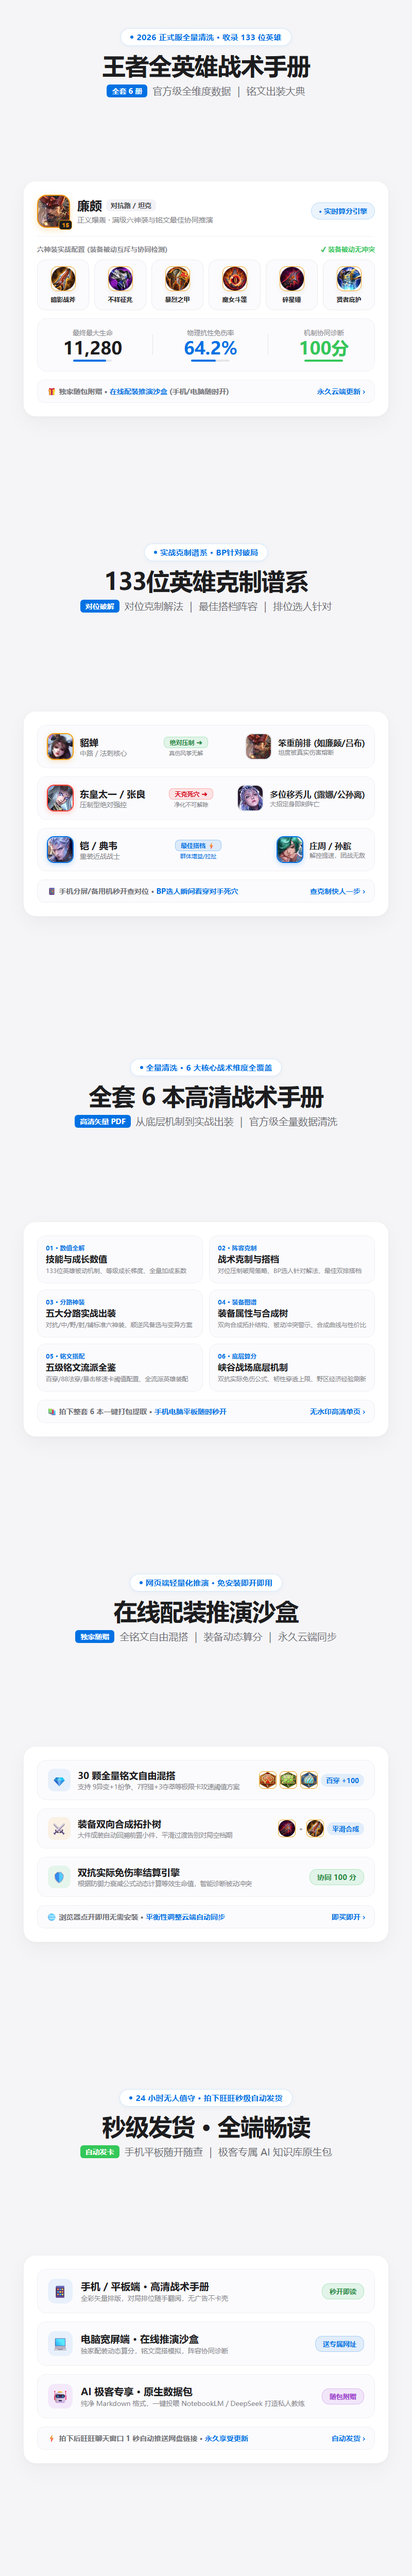
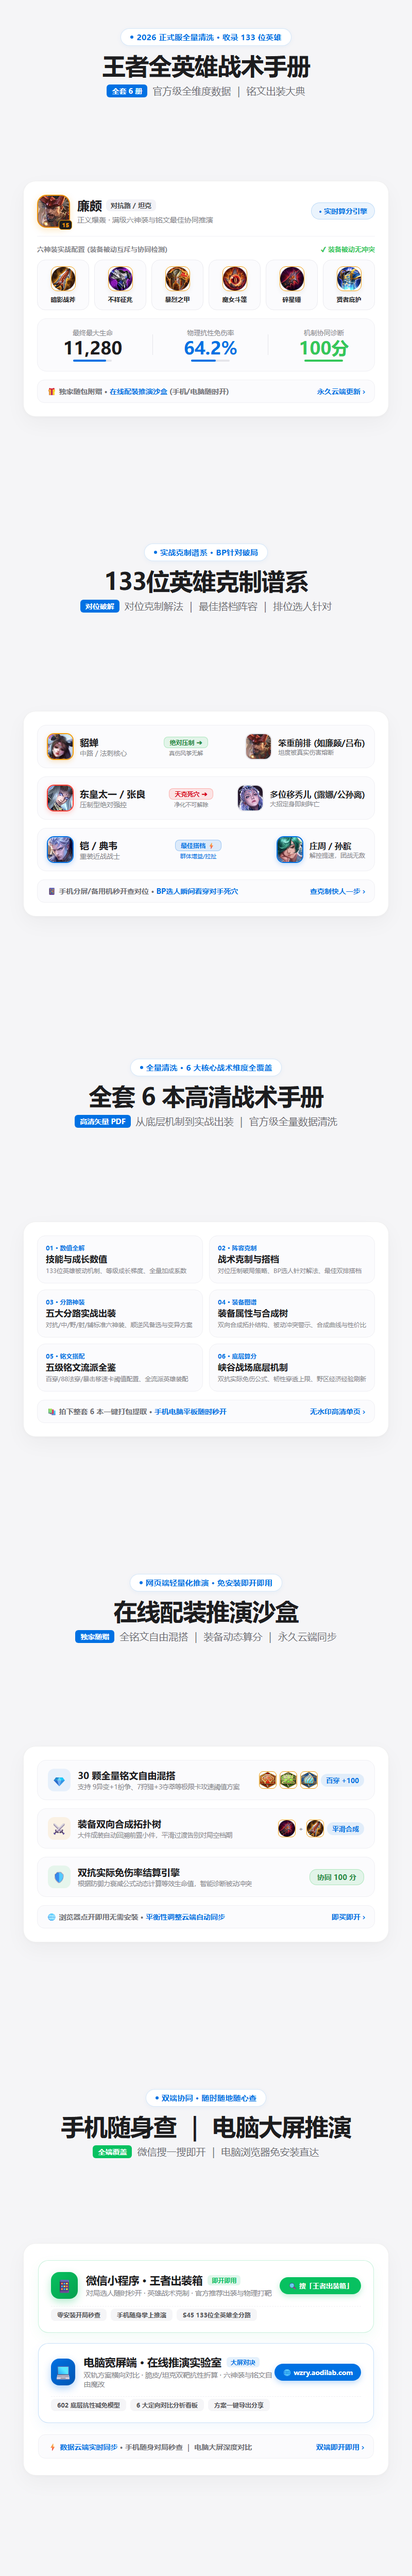
feat(poster): redesign slice 05 into ultra-clean dual-platform showcase and rebuild 800x5000 poster

Changed region(s): [[0.125, 0.8736, 0.625, 0.9672], [0.1562, 0.8112, 0.8438, 0.8424], [0.6562, 0.8736, 0.875, 0.9672]]

diff --git a/templates/details/details_slices_extra.py b/templates/details/details_slices_extra.py
@@ -114,53 +114,73 @@ DETAILS_SLICES_EXTRA = [
         """
     ),
 
-    # 05_详情页：发货流程与全平台畅读
+    # 05_详情页：双端协同实战体验 (微信小程序 + 电脑宽屏沙盒)
     (
         "05_详情页_秒级发货全端畅读.png",
-        "24 小时无人值守 · 拍下旺旺秒级自动发货",
-        "秒级发货 · 全端畅读",
-        '<span class="subtitle-badge" style="background:#34c759;">自动发卡</span> <span>手机平板随开随查 ｜ 极客专属 AI 知识库原生包</span>',
+        "双端协同 · 随时随地随心查",
+        "手机随身查 ｜ 电脑大屏推演",
+        '<span class="subtitle-badge" style="background:#07c160;">全端覆盖</span> <span>微信搜一搜即开 ｜ 电脑浏览器免安装直达</span>',
         """
-        <div class="pro-card">
-            <div style="background:#fbfbfd; border-radius:18px; padding:18px 20px; border:1px solid #f0f0f4; display:flex; align-items:center; justify-content:space-between;">
-                <div style="display:flex; align-items:center; gap:16px;">
-                    <div style="width:48px; height:48px; border-radius:14px; background:rgba(0,113,227,0.08); display:flex; align-items:center; justify-content:center; font-size:24px;">📱</div>
-                    <div>
-                        <div style="font-size:19px; font-weight:800; color:#1d1d1f;">手机 / 平板端 · 高清战术手册</div>
-                        <div style="font-size:13px; color:#86868b; margin-top:2px;">全彩矢量排版，对局排位随手翻阅，无广告不卡壳</div>
+        <div class="pro-card" style="gap:20px; padding:32px 28px;">
+            <!-- 模块 1：微信小程序 -->
+            <div style="background:#ffffff; border-radius:20px; padding:22px 24px; border:1.5px solid rgba(7,193,96,0.22); box-shadow:0 8px 24px rgba(7,193,96,0.06); display:flex; flex-direction:column; gap:14px;">
+                <div style="display:flex; align-items:center; justify-content:space-between;">
+                    <div style="display:flex; align-items:center; gap:16px;">
+                        <div style="width:52px; height:52px; border-radius:16px; background:linear-gradient(135deg, #07c160 0%, #05a04e 100%); display:flex; align-items:center; justify-content:center; color:#ffffff; font-size:26px; box-shadow:0 6px 16px rgba(7,193,96,0.3);">
+                            📱
+                        </div>
+                        <div>
+                            <div style="display:flex; align-items:center; gap:10px;">
+                                <div style="font-size:21px; font-weight:850; color:#1d1d1f; letter-spacing:-0.02em;">微信小程序 · 王者出装箱</div>
+                                <span style="background:rgba(7,193,96,0.12); color:#07c160; font-size:12px; font-weight:800; padding:2px 8px; border-radius:6px;">即开即用</span>
+                            </div>
+                            <div style="font-size:13.5px; color:#86868b; margin-top:3px;">对局选人随时秒开 · 英雄战术克制 · 官方推荐出装与物理打靶</div>
+                        </div>
+                    </div>
+                    <div style="background:#07c160; color:#ffffff; font-size:13px; font-weight:800; padding:8px 16px; border-radius:980px; box-shadow:0 4px 12px rgba(7,193,96,0.25); white-space:nowrap;">
+                        🔍 搜「王者出装箱」
                     </div>
                 </div>
-                <span style="background:rgba(52,199,89,0.12); color:#248a3d; border:1px solid rgba(52,199,89,0.3); font-size:13px; font-weight:800; padding:6px 14px; border-radius:14px;">秒开即读</span>
+                <div style="display:flex; gap:8px; padding-top:4px; border-top:1px dashed #f0f0f4;">
+                    <span style="background:#f5f5f7; color:#515154; font-size:12px; font-weight:600; padding:4px 12px; border-radius:8px;">零安装开局秒查</span>
+                    <span style="background:#f5f5f7; color:#515154; font-size:12px; font-weight:600; padding:4px 12px; border-radius:8px;">手机随身掌上推演</span>
+                    <span style="background:#f5f5f7; color:#515154; font-size:12px; font-weight:600; padding:4px 12px; border-radius:8px;">S45 133位全英雄全分路</span>
+                </div>
             </div>
 
-            <div style="background:#fbfbfd; border-radius:18px; padding:18px 20px; border:1px solid #f0f0f4; display:flex; align-items:center; justify-content:space-between;">
-                <div style="display:flex; align-items:center; gap:16px;">
-                    <div style="width:48px; height:48px; border-radius:14px; background:rgba(0,113,227,0.08); display:flex; align-items:center; justify-content:center; font-size:24px;">💻</div>
-                    <div>
-                        <div style="font-size:19px; font-weight:800; color:#1d1d1f;">电脑宽屏端 · 在线推演沙盒</div>
-                        <div style="font-size:13px; color:#86868b; margin-top:2px;">独家配装动态算分，铭文混搭模拟，阵容协同诊断</div>
+            <!-- 模块 2：电脑宽屏推演沙盒 -->
+            <div style="background:#ffffff; border-radius:20px; padding:22px 24px; border:1.5px solid rgba(0,113,227,0.22); box-shadow:0 8px 24px rgba(0,113,227,0.06); display:flex; flex-direction:column; gap:14px;">
+                <div style="display:flex; align-items:center; justify-content:space-between;">
+                    <div style="display:flex; align-items:center; gap:16px;">
+                        <div style="width:52px; height:52px; border-radius:16px; background:linear-gradient(135deg, #0071e3 0%, #0056b3 100%); display:flex; align-items:center; justify-content:center; color:#ffffff; font-size:26px; box-shadow:0 6px 16px rgba(0,113,227,0.3);">
+                            💻
+                        </div>
+                        <div>
+                            <div style="display:flex; align-items:center; gap:10px;">
+                                <div style="font-size:21px; font-weight:850; color:#1d1d1f; letter-spacing:-0.02em;">电脑宽屏端 · 在线推演实验室</div>
+                                <span style="background:rgba(0,113,227,0.1); color:#0071e3; font-size:12px; font-weight:800; padding:2px 8px; border-radius:6px;">大屏对决</span>
+                            </div>
+                            <div style="font-size:13.5px; color:#86868b; margin-top:3px;">双轨方案横向对比 · 脆皮/坦克双靶抗性折算 · 六神装与铭文自由魔改</div>
+                        </div>
+                    </div>
+                    <div style="background:#0071e3; color:#ffffff; font-size:13px; font-weight:800; padding:8px 16px; border-radius:980px; box-shadow:0 4px 12px rgba(0,113,227,0.25); white-space:nowrap;">
+                        🌐 wzry.aodilab.com
                     </div>
                 </div>
-                <span style="background:rgba(0,113,227,0.1); color:#0071e3; border:1px solid rgba(0,113,227,0.25); font-size:13px; font-weight:800; padding:6px 14px; border-radius:14px;">送专属网址</span>
-            </div>
-
-            <div style="background:#fbfbfd; border-radius:18px; padding:18px 20px; border:1px solid #f0f0f4; display:flex; align-items:center; justify-content:space-between;">
-                <div style="display:flex; align-items:center; gap:16px;">
-                    <div style="width:48px; height:48px; border-radius:14px; background:rgba(175,82,222,0.1); display:flex; align-items:center; justify-content:center; font-size:24px;">🤖</div>
-                    <div>
-                        <div style="font-size:19px; font-weight:800; color:#1d1d1f;">AI 极客专享 · 原生数据包</div>
-                        <div style="font-size:13px; color:#86868b; margin-top:2px;">纯净 Markdown 格式，一键投喂 NotebookLM / DeepSeek 打造私人教练</div>
-                    </div>
+                <div style="display:flex; gap:8px; padding-top:4px; border-top:1px dashed #f0f0f4;">
+                    <span style="background:#f5f5f7; color:#515154; font-size:12px; font-weight:600; padding:4px 12px; border-radius:8px;">602 底层抗性减免模型</span>
+                    <span style="background:#f5f5f7; color:#515154; font-size:12px; font-weight:600; padding:4px 12px; border-radius:8px;">6 大定向对比分析看板</span>
+                    <span style="background:#f5f5f7; color:#515154; font-size:12px; font-weight:600; padding:4px 12px; border-radius:8px;">方案一键导出分享</span>
                 </div>
-                <span style="background:rgba(175,82,222,0.12); color:#9933cc; border:1px solid rgba(175,82,222,0.3); font-size:13px; font-weight:800; padding:6px 14px; border-radius:14px;">随包附赠</span>
             </div>
 
             <!-- 卡片内置微注 -->
-            <div class="card-footer-tip">
-                <span>⚡ 拍下后旺旺聊天窗口 1 秒自动推送网盘链接 · <strong>永久享受更新</strong></span>
-                <span style="color:#0071e3;">自动发货 ›</span>
+            <div class="card-footer-tip" style="padding-top:14px; margin-top:2px;">
+                <span>⚡ <strong>数据云端实时同步</strong> · 手机随身对局秒查 ｜ 电脑大屏深度对比</span>
+                <span style="color:#0071e3; font-weight:700;">双端即开即用 ›</span>
             </div>
         </div>
         """
     ),
+
 ]
